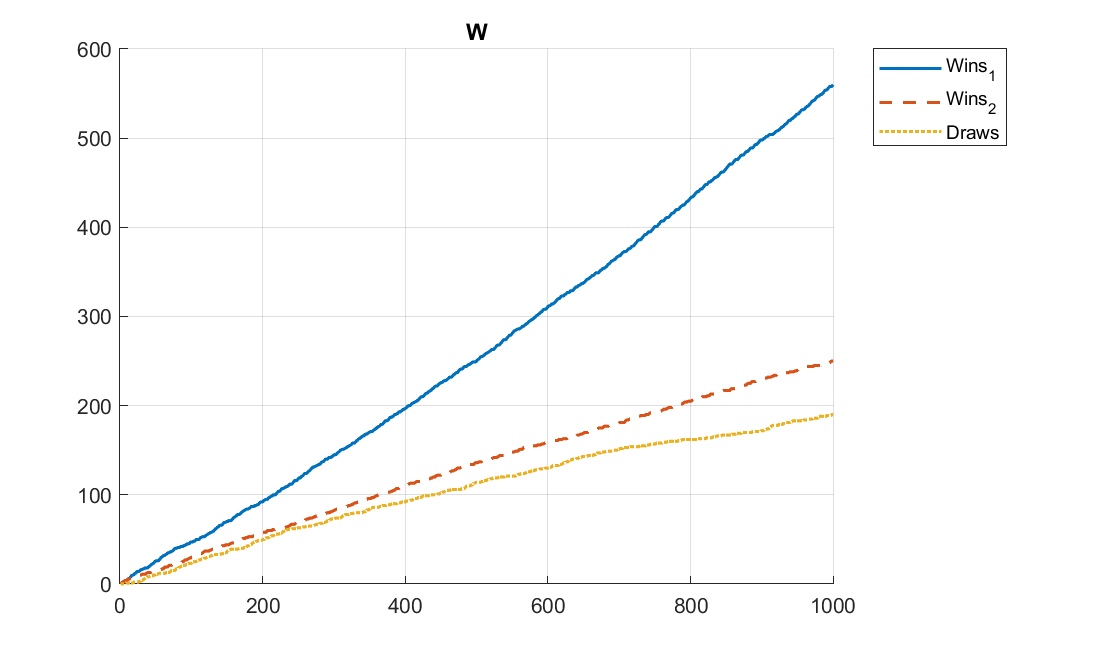
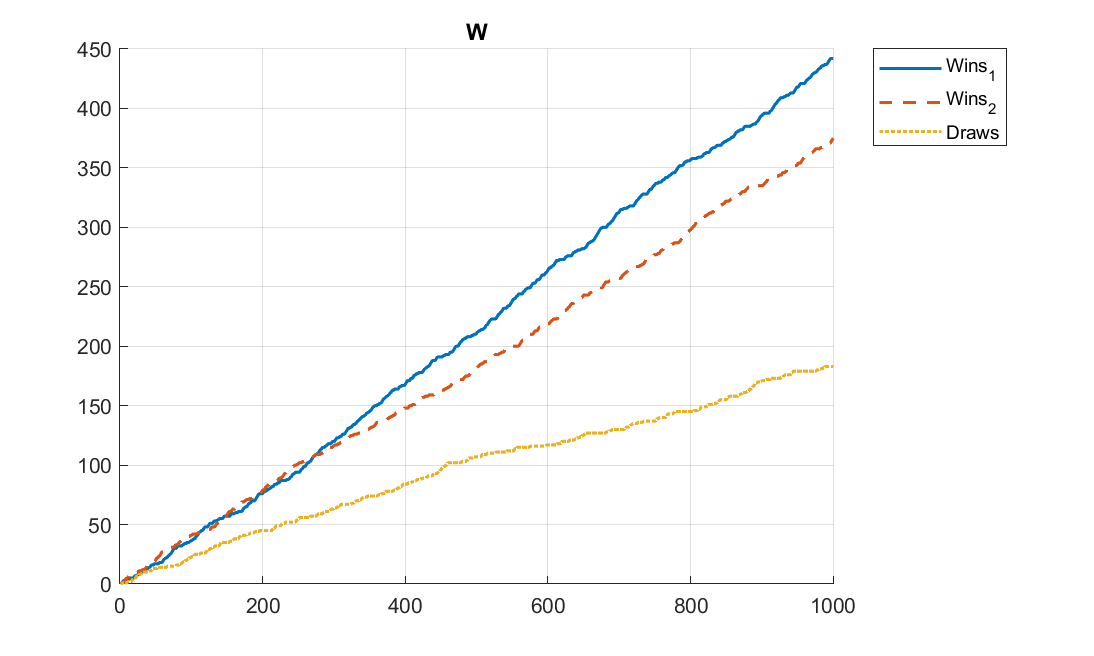
close #16, close #17

diff --git a/rel1/agents_fights/e_greedy_vs_UCB.m b/rel1/agents_fights/e_greedy_vs_UCB.m
@@ -20,7 +20,7 @@ historyQ1 = zeros(A, lengthEpisode); % save history of Q
 historyN1 = zeros(A, lengthEpisode); % save history of N
 
 %--------------Initialization for the e-greedy agent--------------
-epsilon2 = 0.05;
+epsilon2 = 5e-1;
 alpha2 = 1e-2; % step size
 Q2 = zeros(A, 1); % estimate of the value of actions for agent 1
 N2 = zeros(A, 1); % number of times we take each action for agent 1
@@ -46,10 +46,10 @@ for i = 1:lengthEpisode
 
     %---------------update N and Q for the UCB agent---------------------
     N1(agent_int1) = N1(agent_int1) + 1;
-    Q1(agent_int1) = Q1(agent_int1) + 1/N1(agent_int1)*(r1 - Q1(agent_int1));
+    Q1(agent_int1) = Q1(agent_int1) + alpha1*(r1 - Q1(agent_int1));
 
    
-    %---------Update preferences for the preference update agent---------
+    %---------Update preferences for the e-greedy update agent----------
     N2(agent_int2) = N2(agent_int2) + 1;
     Q2(agent_int2) = Q2(agent_int2) + alpha2*(r2 - Q2(agent_int2));
 
